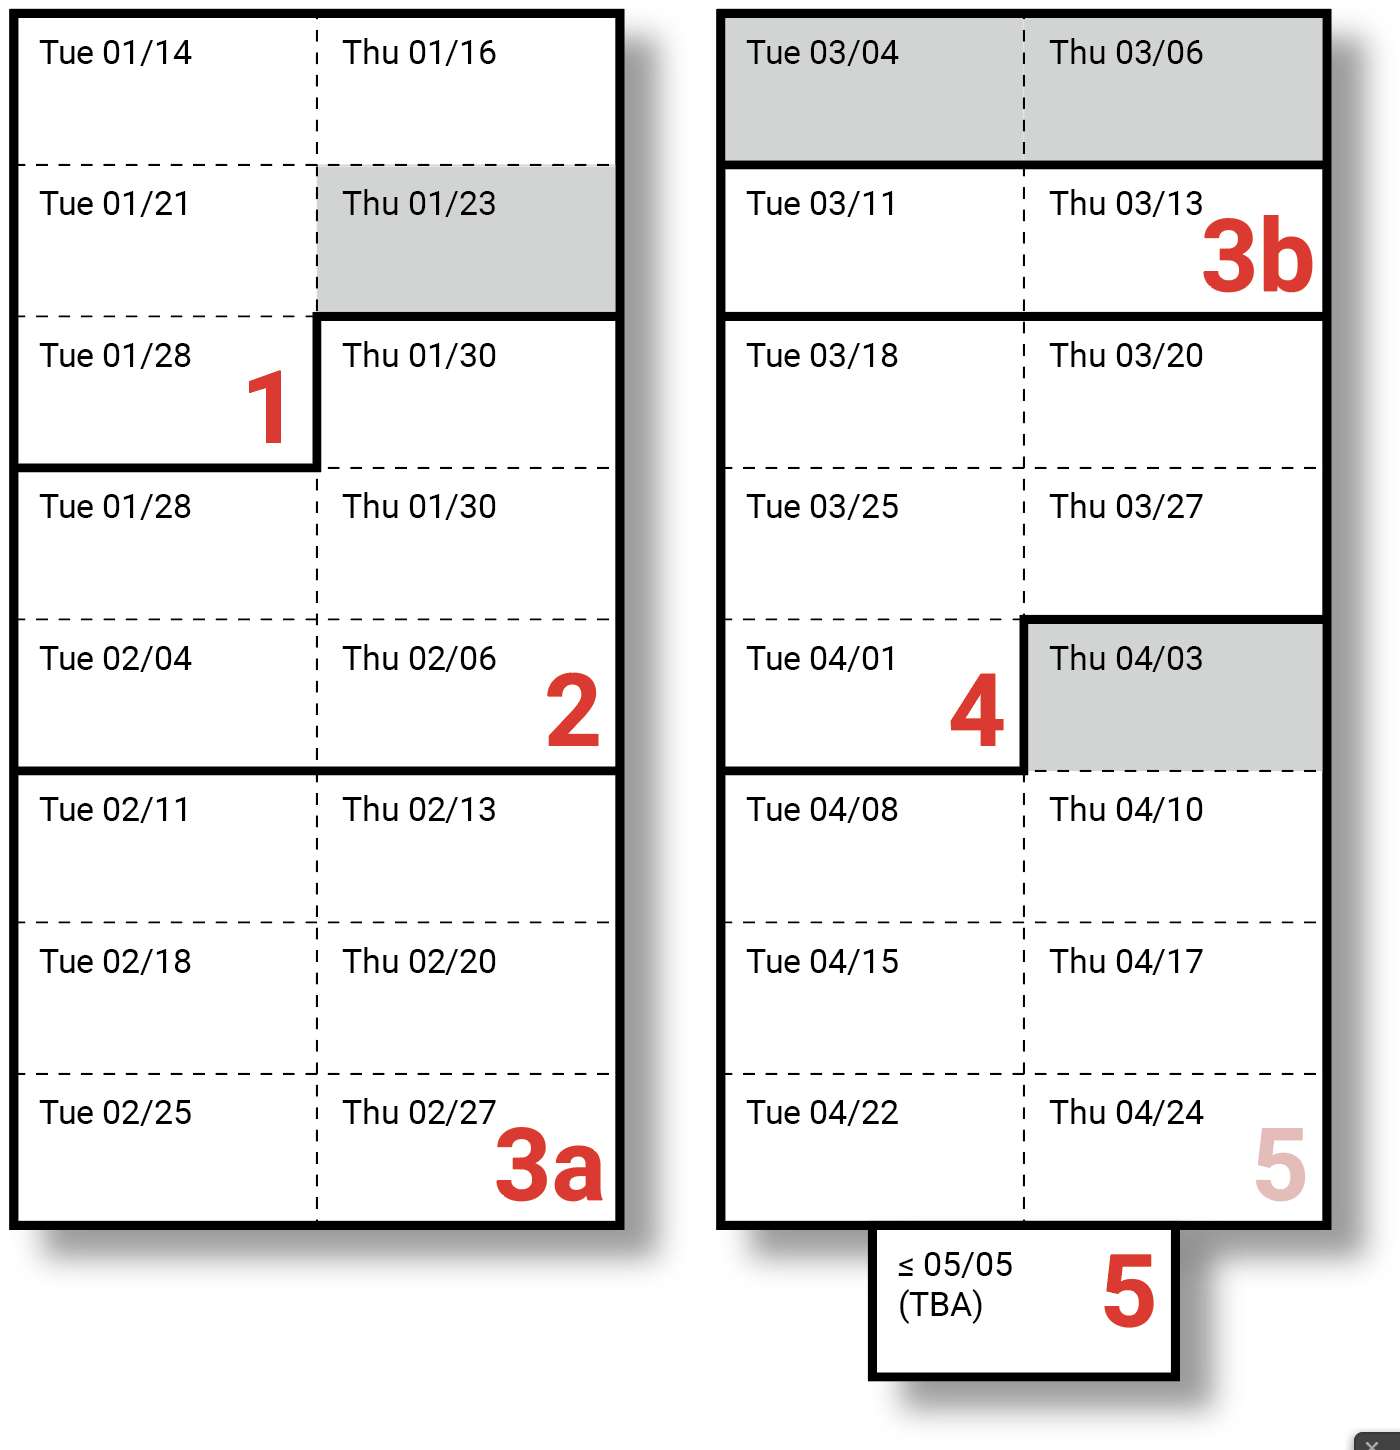
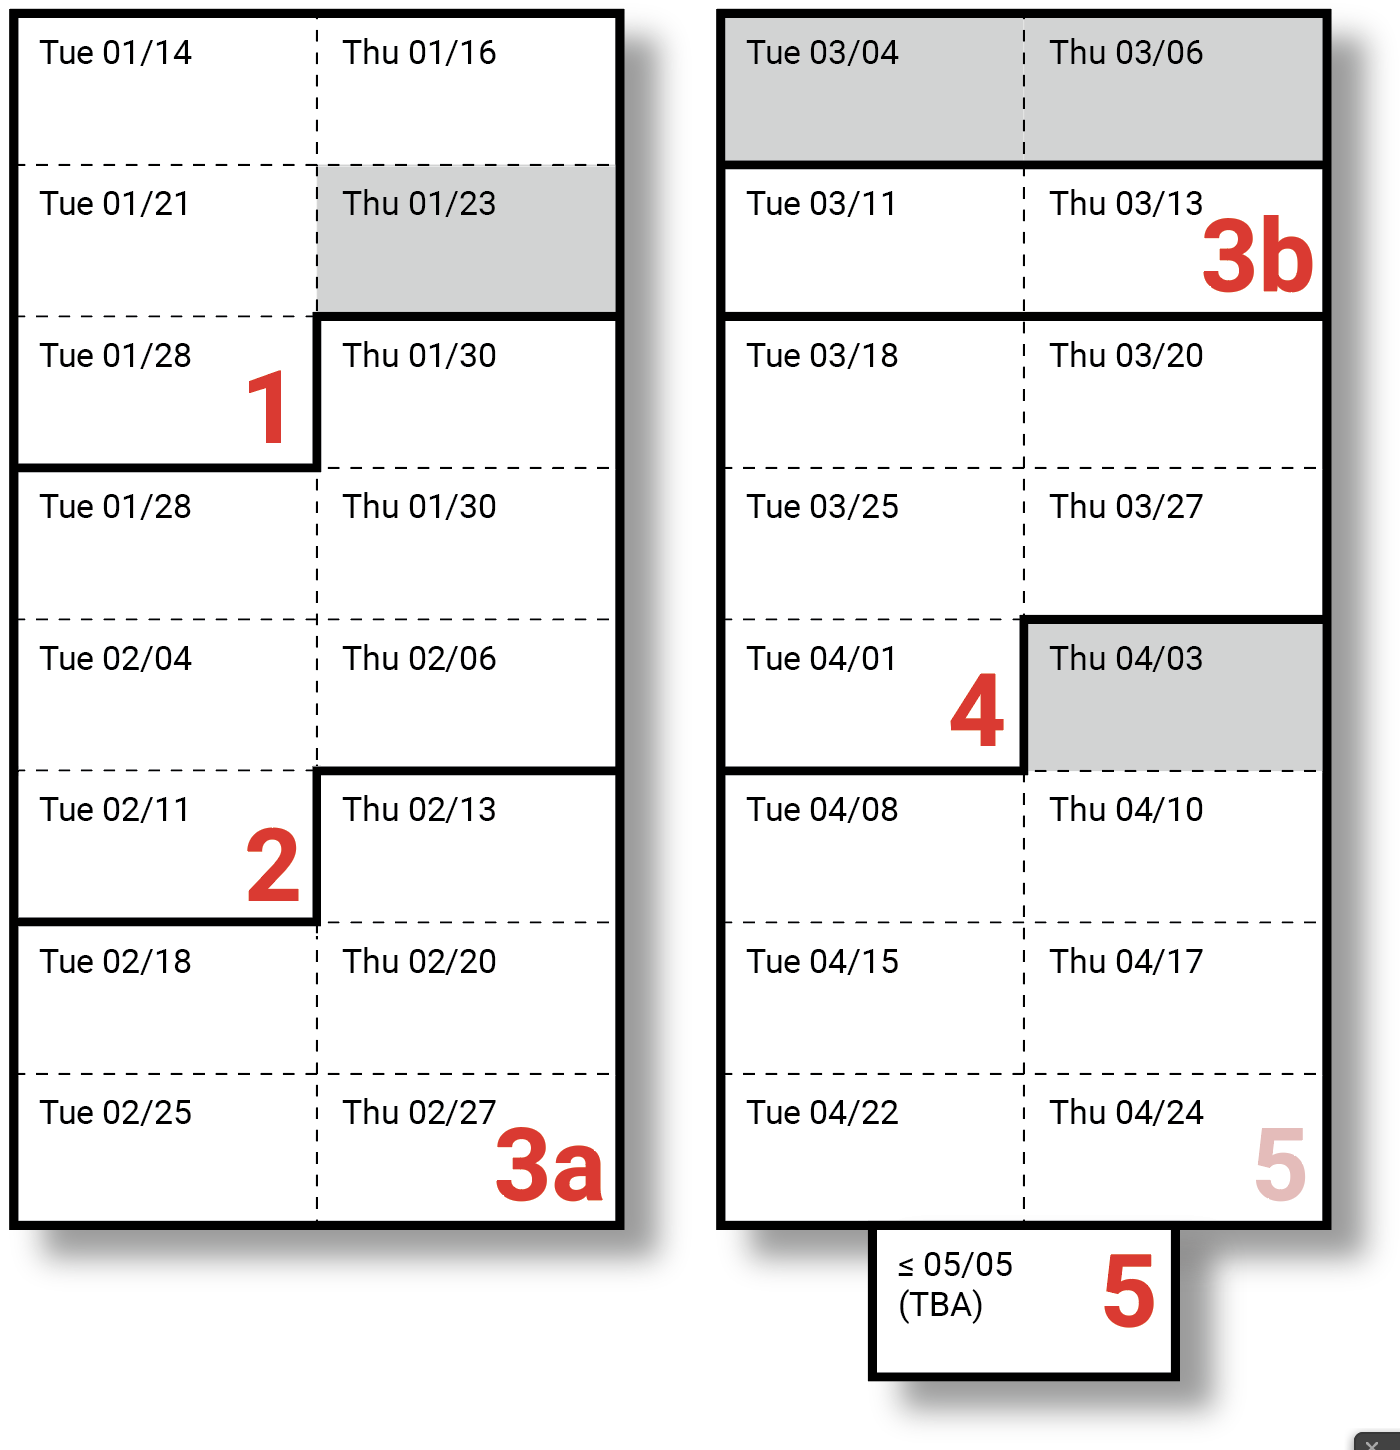
huh

Changed region(s): [[0.0, 0.5276, 0.2457, 0.6517], [0.3993, 0.4655, 0.43, 0.5276]]

diff --git a/assignments/assignment_2.md b/assignments/assignment_2.md
@@ -8,7 +8,7 @@ This Unit will culminate in the creation of a **custom imaging system** in Comfy
 * 2.4. Helpful Viewings *(30 minutes, due 2/4)*
 * 2.5. Image Analysis with Comfy *(60 minutes (?), due 2/4)*
 * 2.6. Style Transfer + Upscaling in Comfy *(60 minutes (?), due 2/4)*
-
+* 2.7. A Generative System in Comfy *(6 hours, due 2/11)*
 
 ---
 
@@ -147,7 +147,16 @@ In this exercise, you will use 2 custom nodes (IPAdapter Plus and Ultimate Upsca
 
 ---
 
-# MORE TBA. 
+## 2.7. A Generative System in Comfy *(6 hours, due 2/11)*
+
+* **Research** custom Comfy nodes that do interesting things. 
+* **Create** a generative system using ComfyUI. Use it to create at least 3 outputs. It's OK to adapt a pre-existing workflow, but you might learn more by starting from scratch. 
+* **Create** a post in the Discord channel `#2-7-system`. 
+* **Write** a paragraph about what your project is/does. Include some text acknowledging credit to custom nodes that you used, and/or workflows that you adapted.
+* **Include** embedded image(s) and/or links to an unlisted YouTube video.
+* **Include** an exported workflow-PNG.
+
+
 
 
 

diff --git a/README.md b/README.md
@@ -31,8 +31,8 @@ Prof. Golan Levin, CMU School of Art
 * `Thu 01/30`: Due: [2.1](https://github.com/golanlevin/gen-ai/blob/main/assignments/assignment_2.md#21-technical-overview-of-stable-diffusion), [2.2](https://github.com/golanlevin/gen-ai/blob/main/assignments/assignment_2.md#22-comfyui-ecosystem-exploration) 
 * `FEB -----`
 * `Tue 02/04`: Due: [2.3](https://github.com/golanlevin/gen-ai/blob/main/assignments/assignment_2.md#23-readings), [2.4](https://github.com/golanlevin/gen-ai/blob/main/assignments/assignment_2.md#24-helpful-viewings), [2.5](https://github.com/golanlevin/gen-ai/blob/main/assignments/assignment_2.md#25-image-analysis-with-comfy), [2.6](https://github.com/golanlevin/gen-ai/blob/main/assignments/assignment_2.md#26-style-transfer--upscaling-in-comfy)
-* `Thu 02/06`: Assignments #2 Due (*probably moving to 2/11*)
-* `Tue 02/11`: Sam Lavigne class visit. 
+* `Thu 02/06`: *Work session.*
+* `Tue 02/11`: Assignments #2 Due. Sam Lavigne class visit. 
 * `Thu 02/13`: 
 * `Tue 02/18`: 
 * `Thu 02/20`: 
